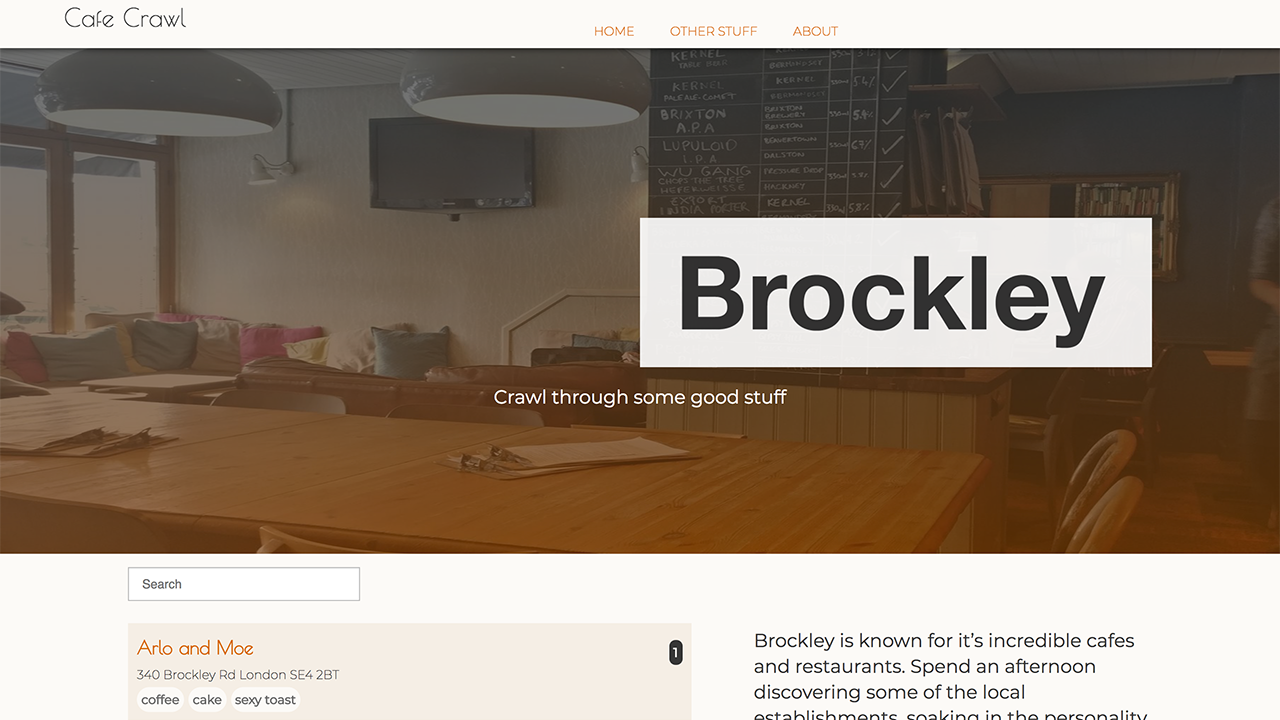
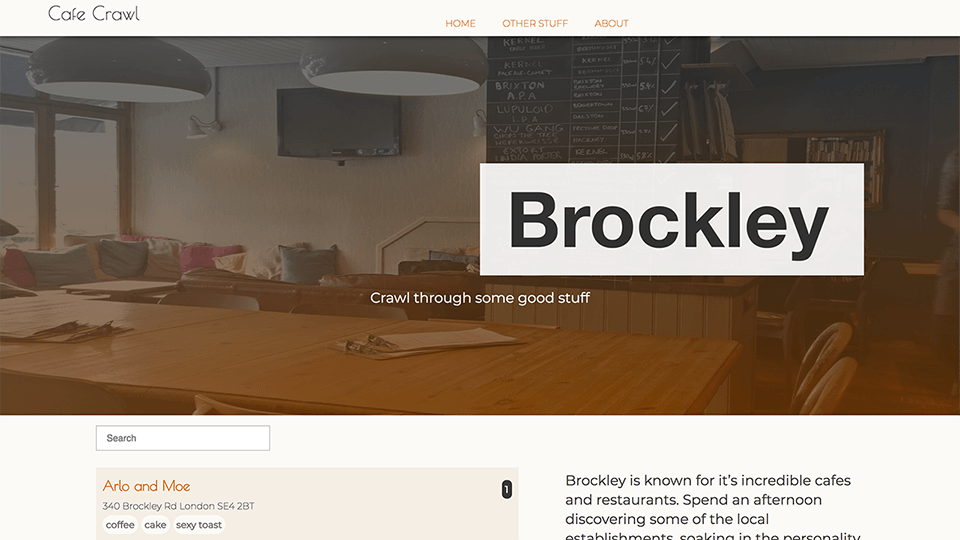
compress images

Changed region(s): [[0.5938, 0.8889, 0.875, 1.0], [0.375, 0.5333, 0.625, 0.563], [0.0938, 0.8889, 0.1875, 0.9185]]

diff --git a/_next/87667d25134e670c2eaedb246c9591fe/app.js b/_next/87667d25134e670c2eaedb246c9591fe/app.js
@@ -1,4 +1,4 @@
-!function(e){function n(r){if(t[r])return t[r].exports;var o=t[r]={i:r,l:!1,exports:{}},a=!0;try{e[r].call(o.exports,o,o.exports,n),a=!1}finally{a&&delete t[r]}return o.l=!0,o.exports}var r=window.webpackJsonp;window.webpackJsonp=function(t,a,u){for(var c,i,s,l=0,d=[];l<t.length;l++)i=t[l],o[i]&&d.push(o[i][0]),o[i]=0;for(c in a)Object.prototype.hasOwnProperty.call(a,c)&&(e[c]=a[c]);for(r&&r(t,a,u);d.length;)d.shift()();if(u)for(l=0;l<u.length;l++)s=n(n.s=u[l]);return s};var t={},o={5:0};n.e=function(e){function r(){c.onerror=c.onload=null,clearTimeout(i);var n=o[e];0!==n&&(n&&n[1](new Error("Loading chunk "+e+" failed.")),o[e]=void 0)}var t=o[e];if(0===t)return new Promise(function(e){e()});if(t)return t[2];var a=new Promise(function(n,r){t=o[e]=[n,r]});t[2]=a;var u=document.getElementsByTagName("head")[0],c=document.createElement("script");c.type="text/javascript",c.charset="utf-8",c.async=!0,c.timeout=12e4,n.nc&&c.setAttribute("nonce",n.nc),c.src=n.p+""+({0:"commons",1:"main.js",2:"bundles/pages/index.js",3:"bundles/pages/_error.js",4:"bundles/pages/_document.js"}[e]||e);var i=setTimeout(r,12e4);return c.onerror=c.onload=r,u.appendChild(c),a},n.m=e,n.c=t,n.d=function(e,r,t){n.o(e,r)||Object.defineProperty(e,r,{configurable:!1,enumerable:!0,get:t})},n.n=function(e){var r=e&&e.__esModule?function(){return e.default}:function(){return e};return n.d(r,"a",r),r},n.o=function(e,n){return Object.prototype.hasOwnProperty.call(e,n)},n.p="/_next/5a4ad156-81a2-4d4a-993d-236978d4b62d/webpack/",n.oe=function(e){throw console.error(e),e}}([]);
+!function(e){function n(r){if(t[r])return t[r].exports;var o=t[r]={i:r,l:!1,exports:{}},a=!0;try{e[r].call(o.exports,o,o.exports,n),a=!1}finally{a&&delete t[r]}return o.l=!0,o.exports}var r=window.webpackJsonp;window.webpackJsonp=function(t,a,c){for(var u,i,s,l=0,f=[];l<t.length;l++)i=t[l],o[i]&&f.push(o[i][0]),o[i]=0;for(u in a)Object.prototype.hasOwnProperty.call(a,u)&&(e[u]=a[u]);for(r&&r(t,a,c);f.length;)f.shift()();if(c)for(l=0;l<c.length;l++)s=n(n.s=c[l]);return s};var t={},o={5:0};n.e=function(e){function r(){u.onerror=u.onload=null,clearTimeout(i);var n=o[e];0!==n&&(n&&n[1](new Error("Loading chunk "+e+" failed.")),o[e]=void 0)}var t=o[e];if(0===t)return new Promise(function(e){e()});if(t)return t[2];var a=new Promise(function(n,r){t=o[e]=[n,r]});t[2]=a;var c=document.getElementsByTagName("head")[0],u=document.createElement("script");u.type="text/javascript",u.charset="utf-8",u.async=!0,u.timeout=12e4,n.nc&&u.setAttribute("nonce",n.nc),u.src=n.p+""+({0:"commons",1:"main.js",2:"bundles/pages/index.js",3:"bundles/pages/_error.js",4:"bundles/pages/_document.js"}[e]||e);var i=setTimeout(r,12e4);return u.onerror=u.onload=r,c.appendChild(u),a},n.m=e,n.c=t,n.d=function(e,r,t){n.o(e,r)||Object.defineProperty(e,r,{configurable:!1,enumerable:!0,get:t})},n.n=function(e){var r=e&&e.__esModule?function(){return e.default}:function(){return e};return n.d(r,"a",r),r},n.o=function(e,n){return Object.prototype.hasOwnProperty.call(e,n)},n.p="/_next/3e552907-26c7-419e-b79e-a2ea2ecfa2bd/webpack/",n.oe=function(e){throw console.error(e),e}}([]);
 webpackJsonp([0],[function(e,t,n){"use strict";e.exports=n(129)},function(e,t){var n=e.exports={version:"2.5.1"};"number"==typeof __e&&(__e=n)},function(e,t,n){"use strict";t.__esModule=!0,t.default=function(e,t){if(!(e instanceof t))throw new TypeError("Cannot call a class as a function")}},function(e,t,n){"use strict";t.__esModule=!0;var r=n(86),o=function(e){return e&&e.__esModule?e:{default:e}}(r);t.default=function(){function e(e,t){for(var n=0;n<t.length;n++){var r=t[n];r.enumerable=r.enumerable||!1,r.configurable=!0,"value"in r&&(r.writable=!0),(0,o.default)(e,r.key,r)}}return function(t,n,r){return n&&e(t.prototype,n),r&&e(t,r),t}}()},function(e,t,n){var r=n(6),o=n(1),a=n(15),i=n(16),u=function(e,t,n){var l,s,c,f=e&u.F,d=e&u.G,p=e&u.S,h=e&u.P,m=e&u.B,v=e&u.W,y=d?o:o[t]||(o[t]={}),g=y.prototype,b=d?r:p?r[t]:(r[t]||{}).prototype;d&&(n=t);for(l in n)(s=!f&&b&&void 0!==b[l])&&l in y||(c=s?b[l]:n[l],y[l]=d&&"function"!=typeof b[l]?n[l]:m&&s?a(c,r):v&&b[l]==c?function(e){var t=function(t,n,r){if(this instanceof e){switch(arguments.length){case 0:return new e;case 1:return new e(t);case 2:return new e(t,n)}return new e(t,n,r)}return e.apply(this,arguments)};return t.prototype=e.prototype,t}(c):h&&"function"==typeof c?a(Function.call,c):c,h&&((y.virtual||(y.virtual={}))[l]=c,e&u.R&&g&&!g[l]&&i(g,l,c)))};u.F=1,u.G=2,u.S=4,u.P=8,u.B=16,u.W=32,u.U=64,u.R=128,e.exports=u},function(e,t,n){var r=n(53)("wks"),o=n(36),a=n(6).Symbol,i="function"==typeof a;(e.exports=function(e){return r[e]||(r[e]=i&&a[e]||(i?a:o)("Symbol."+e))}).store=r},function(e,t){var n=e.exports="undefined"!=typeof window&&window.Math==Math?window:"undefined"!=typeof self&&self.Math==Math?self:Function("return this")();"number"==typeof __g&&(__g=n)},function(e,t,n){e.exports=n(99)},function(e,t,n){var r=n(12),o=n(70),a=n(50),i=Object.defineProperty;t.f=n(14)?Object.defineProperty:function(e,t,n){if(r(e),t=a(t,!0),r(n),o)try{return i(e,t,n)}catch(e){}if("get"in n||"set"in n)throw TypeError("Accessors not supported!");return"value"in n&&(e[t]=n.value),e}},function(e,t,n){e.exports={default:n(149),__esModule:!0}},function(e,t,n){"use strict";t.__esModule=!0;var r=n(63),o=function(e){return e&&e.__esModule?e:{default:e}}(r);t.default=function(e,t){if(!e)throw new ReferenceError("this hasn't been initialised - super() hasn't been called");return!t||"object"!==(void 0===t?"undefined":(0,o.default)(t))&&"function"!=typeof t?e:t}},function(e,t,n){"use strict";function r(e){return e&&e.__esModule?e:{default:e}}t.__esModule=!0;var o=n(160),a=r(o),i=n(164),u=r(i),l=n(63),s=r(l);t.default=function(e,t){if("function"!=typeof t&&null!==t)throw new TypeError("Super expression must either be null or a function, not "+(void 0===t?"undefined":(0,s.default)(t)));e.prototype=(0,u.default)(t&&t.prototype,{constructor:{value:e,enumerable:!1,writable:!0,configurable:!0}}),t&&(a.default?(0,a.default)(e,t):e.__proto__=t)}},function(e,t,n){var r=n(13);e.exports=function(e){if(!r(e))throw TypeError(e+" is not an object!");return e}},function(e,t){e.exports=function(e){return"object"==typeof e?null!==e:"function"==typeof e}},function(e,t,n){e.exports=!n(17)(function(){return 7!=Object.defineProperty({},"a",{get:function(){return 7}}).a})},function(e,t,n){var r=n(26);e.exports=function(e,t,n){if(r(e),void 0===t)return e;switch(n){case 1:return function(n){return e.call(t,n)};case 2:return function(n,r){return e.call(t,n,r)};case 3:return function(n,r,o){return e.call(t,n,r,o)}}return function(){return e.apply(t,arguments)}}},function(e,t,n){var r=n(8),o=n(27);e.exports=n(14)?function(e,t,n){return r.f(e,t,o(1,n))}:function(e,t,n){return e[t]=n,e}},function(e,t){e.exports=function(e){try{return!!e()}catch(e){return!0}}},function(e,t){var n={}.hasOwnProperty;e.exports=function(e,t){return n.call(e,t)}},function(e,t,n){"use strict";var r=n(121)(!0);n(48)(String,"String",function(e){this._t=String(e),this._i=0},function(){var e,t=this._t,n=this._i;return n>=t.length?{value:void 0,done:!0}:(e=r(t,n),this._i+=e.length,{value:e,done:!1})})},function(e,t,n){e.exports=n(167)()},function(e,t,n){n(115);for(var r=n(6),o=n(16),a=n(22),i=n(5)("toStringTag"),u="CSSRuleList,CSSStyleDeclaration,CSSValueList,ClientRectList,DOMRectList,DOMStringList,DOMTokenList,DataTransferItemList,FileList,HTMLAllCollection,HTMLCollection,HTMLFormElement,HTMLSelectElement,MediaList,MimeTypeArray,NamedNodeMap,NodeList,PaintRequestList,Plugin,PluginArray,SVGLengthList,SVGNumberList,SVGPathSegList,SVGPointList,SVGStringList,SVGTransformList,SourceBufferList,StyleSheetList,TextTrackCueList,TextTrackList,TouchList".split(","),l=0;l<u.length;l++){var s=u[l],c=r[s],f=c&&c.prototype;f&&!f[i]&&o(f,i,s),a[s]=a.Array}},function(e,t){e.exports={}},function(e,t,n){var r=n(46),o=n(47);e.exports=function(e){return r(o(e))}},function(e,t,n){var r=n(47);e.exports=function(e){return Object(r(e))}},function(e,t){var n={}.toString;e.exports=function(e){return n.call(e).slice(8,-1)}},function(e,t){e.exports=function(e){if("function"!=typeof e)throw TypeError(e+" is not a function!");return e}},function(e,t){e.exports=function(e,t){return{enumerable:!(1&e),configurable:!(2&e),writable:!(4&e),value:t}}},function(e,t,n){var r=n(72),o=n(54);e.exports=Object.keys||function(e){return r(e,o)}},function(e,t,n){var r=n(8).f,o=n(18),a=n(5)("toStringTag");e.exports=function(e,t,n){e&&!o(e=n?e:e.prototype,a)&&r(e,a,{configurable:!0,value:t})}},function(e,t,n){e.exports={default:n(123),__esModule:!0}},function(e,t,n){var r=n(15),o=n(75),a=n(76),i=n(12),u=n(35),l=n(55),s={},c={},t=e.exports=function(e,t,n,f,d){var p,h,m,v,y=d?function(){return e}:l(e),g=r(n,f,t?2:1),b=0;if("function"!=typeof y)throw TypeError(e+" is not iterable!");if(a(y)){for(p=u(e.length);p>b;b++)if((v=t?g(i(h=e[b])[0],h[1]):g(e[b]))===s||v===c)return v}else for(m=y.call(e);!(h=m.next()).done;)if((v=o(m,g,h.value,t))===s||v===c)return v};t.BREAK=s,t.RETURN=c},function(e,t,n){"use strict";(function(e){function r(e){return e&&e.__esModule?e:{default:e}}function o(e){}function a(e){var t=this,n=!1;return function(){for(var r=arguments.length,o=Array(r),a=0;a<r;a++)o[a]=arguments[a];n||(n=!0,e.apply(t,o))}}function i(e,t){return e}function u(t){var n=arguments.length>1&&void 0!==arguments[1]?arguments[1]:1;0===n?console.log(t):console.error(t),e.exit(n)}function l(e){return e.displayName||e.name||"Unknown"}function s(){var e=window.location,t=e.protocol,n=e.hostname,r=e.port;return t+"//"+n+(r?":"+r:"")}function c(){var e=window.location.href,t=s();return e.substring(t.length)}Object.defineProperty(t,"__esModule",{value:!0}),t.loadGetInitialProps=void 0;var f=n(44),d=r(f),p=n(56),h=r(p),m=n(61);r(m),t.loadGetInitialProps=function(){var e=(0,h.default)(d.default.mark(function e(t,n){var r,o,a;return d.default.wrap(function(e){for(;;)switch(e.prev=e.next){case 0:if(t.getInitialProps){e.next=2;break}return e.abrupt("return",{});case 2:return e.next=4,t.getInitialProps(n);case 4:if((r=e.sent)||n.res&&n.res.finished){e.next=9;break}throw o=l(t),a='"'+o+'.getInitialProps()" should resolve to an object. But found "'+r+'" instead.',new Error(a);case 9:return e.abrupt("return",r);case 10:case"end":return e.stop()}},e,this)}));return function(t,n){return e.apply(this,arguments)}}();t.warn=o,t.execOnce=a,t.deprecated=i,t.printAndExit=u,t.getDisplayName=l,t.getLocationOrigin=s,t.getURL=c}).call(t,n(91))},function(e,t){e.exports=!0},function(e,t,n){var r=n(12),o=n(118),a=n(54),i=n(52)("IE_PROTO"),u=function(){},l=function(){var e,t=n(49)("iframe"),r=a.length;for(t.style.display="none",n(73).appendChild(t),t.src="javascript:",e=t.contentWindow.document,e.open(),e.write("<script>document.F=Object<\/script>"),e.close(),l=e.F;r--;)delete l.prototype[a[r]];return l()};e.exports=Object.create||function(e,t){var n;return null!==e?(u.prototype=r(e),n=new u,u.prototype=null,n[i]=e):n=l(),void 0===t?n:o(n,t)}},function(e,t,n){var r=n(51),o=Math.min;e.exports=function(e){return e>0?o(r(e),9007199254740991):0}},function(e,t){var n=0,r=Math.random();e.exports=function(e){return"Symbol(".concat(void 0===e?"":e,")_",(++n+r).toString(36))}},function(e,t,n){var r=n(25),o=n(5)("toStringTag"),a="Arguments"==r(function(){return arguments}()),i=function(e,t){try{return e[t]}catch(e){}};e.exports=function(e){var t,n,u;return void 0===e?"Undefined":null===e?"Null":"string"==typeof(n=i(t=Object(e),o))?n:a?r(t):"Object"==(u=r(t))&&"function"==typeof t.callee?"Arguments":u}},function(e,t){},function(e,t,n){"use strict";function r(e){return function(){return e}}var o=function(){};o.thatReturns=r,o.thatReturnsFalse=r(!1),o.thatReturnsTrue=r(!0),o.thatReturnsNull=r(null),o.thatReturnsThis=function(){return this},o.thatReturnsArgument=function(e){return e},e.exports=o},function(e,t,n){"use strict";function r(e){return e&&e.__esModule?e:{default:e}}t.__esModule=!0;var o=n(142),a=r(o),i=n(45),u=r(i);t.default=function(){function e(e,t){var n=[],r=!0,o=!1,a=void 0;try{for(var i,l=(0,u.default)(e);!(r=(i=l.next()).done)&&(n.push(i.value),!t||n.length!==t);r=!0);}catch(e){o=!0,a=e}finally{try{!r&&l.return&&l.return()}finally{if(o)throw a}}return n}return function(t,n){if(Array.isArray(t))return t;if((0,a.default)(Object(t)))return e(t,n);throw new TypeError("Invalid attempt to destructure non-iterable instance")}}()},function(e,t,n){"use strict";t.__esModule=!0;var r=n(61),o=function(e){return e&&e.__esModule?e:{default:e}}(r);t.default=o.default||function(e){for(var t=1;t<arguments.length;t++){var n=arguments[t];for(var r in n)Object.prototype.hasOwnProperty.call(n,r)&&(e[r]=n[r])}return e}},function(e,t){t.f={}.propertyIsEnumerable},function(e,t,n){e.exports={default:n(172),__esModule:!0}},function(e,t,n){e.exports=n(112)},function(e,t,n){e.exports={default:n(114),__esModule:!0}},function(e,t,n){var r=n(25);e.exports=Object("z").propertyIsEnumerable(0)?Object:function(e){return"String"==r(e)?e.split(""):Object(e)}},function(e,t){e.exports=function(e){if(void 0==e)throw TypeError("Can't call method on  "+e);return e}},function(e,t,n){"use strict";var r=n(33),o=n(4),a=n(71),i=n(16),u=n(18),l=n(22),s=n(117),c=n(29),f=n(74),d=n(5)("iterator"),p=!([].keys&&"next"in[].keys()),h=function(){return this};e.exports=function(e,t,n,m,v,y,g){s(n,t,m);var b,x,_,w=function(e){if(!p&&e in S)return S[e];switch(e){case"keys":case"values":return function(){return new n(this,e)}}return function(){return new n(this,e)}},k=t+" Iterator",E="values"==v,C=!1,S=e.prototype,T=S[d]||S["@@iterator"]||v&&S[v],O=T||w(v),j=v?E?w("entries"):O:void 0,P="Array"==t?S.entries||T:T;if(P&&(_=f(P.call(new e)))!==Object.prototype&&_.next&&(c(_,k,!0),r||u(_,d)||i(_,d,h)),E&&T&&"values"!==T.name&&(C=!0,O=function(){return T.call(this)}),r&&!g||!p&&!C&&S[d]||i(S,d,O),l[t]=O,l[k]=h,v)if(b={values:E?O:w("values"),keys:y?O:w("keys"),entries:j},g)for(x in b)x in S||a(S,x,b[x]);else o(o.P+o.F*(p||C),t,b);return b}},function(e,t,n){var r=n(13),o=n(6).document,a=r(o)&&r(o.createElement);e.exports=function(e){return a?o.createElement(e):{}}},function(e,t,n){var r=n(13);e.exports=function(e,t){if(!r(e))return e;var n,o;if(t&&"function"==typeof(n=e.toString)&&!r(o=n.call(e)))return o;if("function"==typeof(n=e.valueOf)&&!r(o=n.call(e)))return o;if(!t&&"function"==typeof(n=e.toString)&&!r(o=n.call(e)))return o;throw TypeError("Can't convert object to primitive value")}},function(e,t){var n=Math.ceil,r=Math.floor;e.exports=function(e){return isNaN(e=+e)?0:(e>0?r:n)(e)}},function(e,t,n){var r=n(53)("keys"),o=n(36);e.exports=function(e){return r[e]||(r[e]=o(e))}},function(e,t,n){var r=n(6),o=r["__core-js_shared__"]||(r["__core-js_shared__"]={});e.exports=function(e){return o[e]||(o[e]={})}},function(e,t){e.exports="constructor,hasOwnProperty,isPrototypeOf,propertyIsEnumerable,toLocaleString,toString,valueOf".split(",")},function(e,t,n){var r=n(37),o=n(5)("iterator"),a=n(22);e.exports=n(1).getIteratorMethod=function(e){if(void 0!=e)return e[o]||e["@@iterator"]||a[r(e)]}},function(e,t,n){"use strict";t.__esModule=!0;var r=n(30),o=function(e){return e&&e.__esModule?e:{default:e}}(r);t.default=function(e){return function(){var t=e.apply(this,arguments);return new o.default(function(e,n){function r(a,i){try{var u=t[a](i),l=u.value}catch(e){return void n(e)}if(!u.done)return o.default.resolve(l).then(function(e){r("next",e)},function(e){r("throw",e)});e(l)}return r("next")})}}},function(e,t){e.exports=function(e,t,n,r){if(!(e instanceof t)||void 0!==r&&r in e)throw TypeError(n+": incorrect invocation!");return e}},function(e,t,n){"use strict";function r(e){var t,n;this.promise=new e(function(e,r){if(void 0!==t||void 0!==n)throw TypeError("Bad Promise constructor");t=e,n=r}),this.resolve=o(t),this.reject=o(n)}var o=n(26);e.exports.f=function(e){return new r(e)}},function(e,t,n){var r=n(16);e.exports=function(e,t,n){for(var o in t)n&&e[o]?e[o]=t[o]:r(e,o,t[o]);return e}},function(e,t,n){"use strict";function r(e){return e&&e.__esModule?e:{default:e}}function o(){if(!m.router){throw new Error('No router instance found.\nYou should only use "next/router" inside the client side of your app.\n')}}function a(e){m.onAppUpdated?m.onAppUpdated(e):(console.warn('An app update detected. Loading the SSR version of "'+e+'"'),window.location.href=e)}function i(e){var t=e.split("#"),n=(0,s.default)(t,2),r=n[1];e=e.replace(/#.*/,"");var o=e.split("?"),a=(0,s.default)(o,2),i=a[0],u=a[1];i=i.replace(/\/$/,"");var l=i;return/\.[^\/]+\/?$/.test(i)||(l=i+"/"),u&&(l=l+"?"+u),r&&(l=l+"#"+r),l}function u(e){var t={};return v.forEach(function(n){(0,f.default)(t,n,{get:function(){return e[n]}})}),y.forEach(function(n){t[n]=function(){return e[n].apply(e,arguments)}}),t}Object.defineProperty(t,"__esModule",{value:!0}),t.Router=t.createRouter=t.withRouter=void 0;var l=n(40),s=r(l),c=n(86),f=r(c),d=n(145);Object.defineProperty(t,"withRouter",{enumerable:!0,get:function(){return r(d).default}}),t._notifyBuildIdMismatch=a,t._rewriteUrlForNextExport=i,t.makePublicRouterInstance=u;var p=n(171),h=r(p),m={router:null,readyCallbacks:[],ready:function(e){if(this.router)return e();"undefined"!=typeof window&&this.readyCallbacks.push(e)}},v=["components","pathname","route","query","asPath"],y=["push","replace","reload","back","prefetch"],g=["routeChangeStart","beforeHistoryChange","routeChangeComplete","routeChangeError"];v.forEach(function(e){(0,f.default)(m,e,{get:function(){return o(),m.router[e]}})}),y.forEach(function(e){m[e]=function(){var t;return o(),(t=m.router)[e].apply(t,arguments)}}),g.forEach(function(e){m.ready(function(){m.router.events.on(e,function(){var t="on"+e.charAt(0).toUpperCase()+e.substring(1);if(m[t])try{m[t].apply(m,arguments)}catch(e){console.error("Error when running the Router event: "+t),console.error(e.message+"\n"+e.stack)}})})}),t.default=m;t.createRouter=function(){for(var e=arguments.length,t=Array(e),n=0;n<e;n++)t[n]=arguments[n];return m.router=new(Function.prototype.bind.apply(h.default,[null].concat(t))),m.readyCallbacks.forEach(function(e){return e()}),m.readyCallbacks=[],m.router},t.Router=h.default},function(e,t,n){e.exports={default:n(146),__esModule:!0}},function(e,t){t.f=Object.getOwnPropertySymbols},function(e,t,n){"use strict";function r(e){return e&&e.__esModule?e:{default:e}}t.__esModule=!0;var o=n(151),a=r(o),i=n(153),u=r(i),l="function"==typeof u.default&&"symbol"==typeof a.default?function(e){return typeof e}:function(e){return e&&"function"==typeof u.default&&e.constructor===u.default&&e!==u.default.prototype?"symbol":typeof e};t.default="function"==typeof u.default&&"symbol"===l(a.default)?function(e){return void 0===e?"undefined":l(e)}:function(e){return e&&"function"==typeof u.default&&e.constructor===u.default&&e!==u.default.prototype?"symbol":void 0===e?"undefined":l(e)}},function(e,t,n){t.f=n(5)},function(e,t,n){var r=n(36)("meta"),o=n(13),a=n(18),i=n(8).f,u=0,l=Object.isExtensible||function(){return!0},s=!n(17)(function(){return l(Object.preventExtensions({}))}),c=function(e){i(e,r,{value:{i:"O"+ ++u,w:{}}})},f=function(e,t){if(!o(e))return"symbol"==typeof e?e:("string"==typeof e?"S":"P")+e;if(!a(e,r)){if(!l(e))return"F";if(!t)return"E";c(e)}return e[r].i},d=function(e,t){if(!a(e,r)){if(!l(e))return!0;if(!t)return!1;c(e)}return e[r].w},p=function(e){return s&&h.NEED&&l(e)&&!a(e,r)&&c(e),e},h=e.exports={KEY:r,NEED:!1,fastKey:f,getWeak:d,onFreeze:p}},function(e,t,n){var r=n(6),o=n(1),a=n(33),i=n(64),u=n(8).f;e.exports=function(e){var t=o.Symbol||(o.Symbol=a?{}:r.Symbol||{});"_"==e.charAt(0)||e in t||u(t,e,{value:i.f(e)})}},function(e,t,n){var r=n(13);e.exports=function(e,t){if(!r(e)||e._t!==t)throw TypeError("Incompatible receiver, "+t+" required!");return e}},function(e,t,n){"use strict";function r(e){return e&&e.__esModule?e:{default:e}}Object.defineProperty(t,"__esModule",{value:!0});var o=n(43),a=r(o),i=n(2),u=r(i),l=n(3),s=r(l),c=function(){function e(){(0,u.default)(this,e),this.listeners={}}return(0,s.default)(e,[{key:"on",value:function(e,t){if(this.listeners[e]||(this.listeners[e]=new a.default),this.listeners[e].has(t))throw new Error("The listener already exising in event: "+e);this.listeners[e].add(t)}},{key:"emit",value:function(e){for(var t=arguments.length,n=Array(t>1?t-1:0),r=1;r<t;r++)n[r-1]=arguments[r];this.listeners[e]&&this.listeners[e].forEach(function(e){return e.apply(void 0,n)})}},{key:"off",value:function(e,t){this.listeners[e].delete(t)}}]),e}();t.default=c},function(e,t){e.exports=function(e,t){return{value:t,done:!!e}}},function(e,t,n){e.exports=!n(14)&&!n(17)(function(){return 7!=Object.defineProperty(n(49)("div"),"a",{get:function(){return 7}}).a})},function(e,t,n){e.exports=n(16)},function(e,t,n){var r=n(18),o=n(23),a=n(119)(!1),i=n(52)("IE_PROTO");e.exports=function(e,t){var n,u=o(e),l=0,s=[];for(n in u)n!=i&&r(u,n)&&s.push(n);for(;t.length>l;)r(u,n=t[l++])&&(~a(s,n)||s.push(n));return s}},function(e,t,n){var r=n(6).document;e.exports=r&&r.documentElement},function(e,t,n){var r=n(18),o=n(24),a=n(52)("IE_PROTO"),i=Object.prototype;e.exports=Object.getPrototypeOf||function(e){return e=o(e),r(e,a)?e[a]:"function"==typeof e.constructor&&e instanceof e.constructor?e.constructor.prototype:e instanceof Object?i:null}},function(e,t,n){var r=n(12);e.exports=function(e,t,n,o){try{return o?t(r(n)[0],n[1]):t(n)}catch(t){var a=e.return;throw void 0!==a&&r(a.call(e)),t}}},function(e,t,n){var r=n(22),o=n(5)("iterator"),a=Array.prototype;e.exports=function(e){return void 0!==e&&(r.Array===e||a[o]===e)}},function(e,t,n){var r=n(12),o=n(26),a=n(5)("species");e.exports=function(e,t){var n,i=r(e).constructor;return void 0===i||void 0==(n=r(i)[a])?t:o(n)}},function(e,t,n){var r,o,a,i=n(15),u=n(125),l=n(73),s=n(49),c=n(6),f=c.process,d=c.setImmediate,p=c.clearImmediate,h=c.MessageChannel,m=c.Dispatch,v=0,y={},g=function(){var e=+this;if(y.hasOwnProperty(e)){var t=y[e];delete y[e],t()}},b=function(e){g.call(e.data)};d&&p||(d=function(e){for(var t=[],n=1;arguments.length>n;)t.push(arguments[n++]);return y[++v]=function(){u("function"==typeof e?e:Function(e),t)},r(v),v},p=function(e){delete y[e]},"process"==n(25)(f)?r=function(e){f.nextTick(i(g,e,1))}:m&&m.now?r=function(e){m.now(i(g,e,1))}:h?(o=new h,a=o.port2,o.port1.onmessage=b,r=i(a.postMessage,a,1)):c.addEventListener&&"function"==typeof postMessage&&!c.importScripts?(r=function(e){c.postMessage(e+"","*")},c.addEventListener("message",b,!1)):r="onreadystatechange"in s("script")?function(e){l.appendChild(s("script")).onreadystatechange=function(){l.removeChild(this),g.call(e)}}:function(e){setTimeout(i(g,e,1),0)}),e.exports={set:d,clear:p}},function(e,t){e.exports=function(e){try{return{e:!1,v:e()}}catch(e){return{e:!0,v:e}}}},function(e,t,n){var r=n(12),o=n(13),a=n(58);e.exports=function(e,t){if(r(e),o(t)&&t.constructor===e)return t;var n=a.f(e);return(0,n.resolve)(t),n.promise}},function(e,t,n){"use strict";var r=n(6),o=n(1),a=n(8),i=n(14),u=n(5)("species");e.exports=function(e){var t="function"==typeof o[e]?o[e]:r[e];i&&t&&!t[u]&&a.f(t,u,{configurable:!0,get:function(){return this}})}},function(e,t,n){var r=n(5)("iterator"),o=!1;try{var a=[7][r]();a.return=function(){o=!0},Array.from(a,function(){throw 2})}catch(e){}e.exports=function(e,t){if(!t&&!o)return!1;var n=!1;try{var a=[7],i=a[r]();i.next=function(){return{done:n=!0}},a[r]=function(){return i},e(a)}catch(e){}return n}},function(e,t,n){"use strict";function r(e){if(null===e||void 0===e)throw new TypeError("Object.assign cannot be called with null or undefined");return Object(e)}/*
 object-assign
 (c) Sindre Sorhus

diff --git a/index.html b/index.html
@@ -1,4 +1,4 @@
-<!DOCTYPE html><html><head><link rel="preload" href="/_next/5a4ad156-81a2-4d4a-993d-236978d4b62d/page/index.js" as="script"/><link rel="preload" href="/_next/5a4ad156-81a2-4d4a-993d-236978d4b62d/page/_error/index.js" as="script"/><link rel="preload" href="/_next/84dd53aade31389d7c64a0e02fcf51ba/app.js" as="script"/><meta charSet="UTF-8" class="next-head"/><meta http-equiv="x-ua-compatible" content="ie=edge" class="next-head"/><meta name="viewport" content="initial-scale=1.0, width=device-width" class="next-head"/><meta name="description" content="Portfolio page showcasing my work as a Web Devleoper" class="next-head"/><title class="next-head">Andrico Karoulla Portfolio Page</title><link href="https://fonts.googleapis.com/css?family=Lato:300,400,700" rel="stylesheet" type="text/css" class="next-head"/><style id="__jsx-undefined">/* normalize.css */
+<!DOCTYPE html><html><head><link rel="preload" href="/_next/3e552907-26c7-419e-b79e-a2ea2ecfa2bd/page/index.js" as="script"/><link rel="preload" href="/_next/3e552907-26c7-419e-b79e-a2ea2ecfa2bd/page/_error/index.js" as="script"/><link rel="preload" href="/_next/87667d25134e670c2eaedb246c9591fe/app.js" as="script"/><meta charSet="UTF-8" class="next-head"/><meta http-equiv="x-ua-compatible" content="ie=edge" class="next-head"/><meta name="viewport" content="initial-scale=1.0, width=device-width" class="next-head"/><meta name="description" content="Portfolio page showcasing my work as a Web Devleoper" class="next-head"/><title class="next-head">Andrico Karoulla Portfolio Page</title><link href="https://fonts.googleapis.com/css?family=Lato:300,400,700" rel="stylesheet" type="text/css" class="next-head"/><style id="__jsx-undefined">/* normalize.css */
 html {
   line-height: 1.15;
   -ms-text-size-adjust: 100%;
@@ -210,7 +210,7 @@ footer.jsx-3633270217 .button-container.jsx-3633270217{padding:15px 0;text-align
 footer.jsx-3633270217 button.jsx-3633270217{background-color:#e8535b;border:1px solid white;border-radius:1px;color:white;height:45px;padding:12px 0 20px 0;text-align:center;width:135px;}
 footer.jsx-3633270217 button.jsx-3633270217:active{box-shadow:inset 0 0 5px 2px rgba(0,0,0,0.3);}
 footer.jsx-3633270217 button.jsx-3633270217:hover{cursor:pointer;}</style></head><body><div><div id="__next"><div data-reactroot=""><div><div></div><div class="jsx-136946892 header-wrapper"><header class="jsx-136946892"><nav class="jsx-1031844658"><ul class="jsx-1031844658"><li class="jsx-1031844658">Home</li><li class="jsx-1031844658"><a href="https://github.com/andrico1234" class="jsx-1031844658">Work</a></li><li class="jsx-1031844658">About</li><li class="jsx-1031844658"><a href="mailto:andrico1234@yahoo.co.uk?Subject=Hello" class="jsx-1031844658">Contact</a></li></ul></nav><h1 class="jsx-136946892">Hello.</h1><p class="jsx-136946892">A JavaScript developer based in London, my work is an amalgamation of sleek and modern design with fluid interactivity.</p><img src="static/icon-arrow-down.svg" class="jsx-136946892 arrow-down"/></header></div><div class="jsx-1188203435 work-wrapper"><h1 class="jsx-1188203435">Work.</h1><ul class="jsx-1188203435"><li class="jsx-261561737 work-item"><img src="static/fullstack-coffee-app.png" class="jsx-261561737"/><div class="jsx-261561737 content-container"><h3 class="jsx-261561737">Brockley Cafe Crawl</h3><p class="jsx-261561737">A Fullstack Node/React App that details all of the best coffee shops in Brockley</p><button class="jsx-261561737">Learn More.</button></div></li><li class="jsx-261561737 work-item"><img src="static/dashboard-screen.png" class="jsx-261561737"/><div class="jsx-261561737 content-container"><h3 class="jsx-261561737">Web App Dashboard</h3><p class="jsx-261561737">A responsive Web App Dashboard made using JavaScript, sass and jQuery. Also uses additional JS libraries.</p><button class="jsx-261561737">Learn More.</button></div></li><li class="jsx-261561737 work-item"><img src="static/photo-gallery-screen.png" class="jsx-261561737"/><div class="jsx-261561737 content-container"><h3 class="jsx-261561737">Photo Gallery</h3><p class="jsx-261561737">This responsive Web Gallery uses JavaScript and jQuery for search and overlay functionality.</p><button class="jsx-261561737">Learn More.</button></div></li><li class="jsx-261561737 work-item"><img src="static/interactive-form-screen.png" class="jsx-261561737"/><div class="jsx-261561737 content-container"><h3 class="jsx-261561737">Registration Form</h3><p class="jsx-261561737">A Registration Form made using HTML5. Utilised modern accessibility tools and CSS transitions for improved UX.</p><button class="jsx-261561737">Learn More.</button></div></li><li class="jsx-261561737 work-item"><img src="static/realtime-chat-app.png" class="jsx-261561737"/><div class="jsx-261561737 content-container"><h3 class="jsx-261561737">Realtime Chat App</h3><p class="jsx-261561737">A Real Time Chat application that allows multiple users over the internet to communicate with one another</p><button class="jsx-261561737">Learn More.</button></div></li><li class="jsx-261561737 work-item"><img src="static/video-player-screen.png" class="jsx-261561737"/><div class="jsx-261561737 content-container"><h3 class="jsx-261561737">Interactive Video Player</h3><p class="jsx-261561737">A multi-function Video Player created using JavaScript, sass and jQuery. Functions include speed adjustment and captions.</p><button class="jsx-261561737">Learn More.</button></div></li></ul></div><div class="jsx-3633270217 footer-wrapper"><footer class="jsx-3633270217"><h1 class="jsx-3633270217">Contact.</h1><p class="jsx-3633270217">If you have any questions or queries about my work, or would like an interactive website built, then don&#x27;t hesitate to drop me an email. You can reach out to me on social media via the icons below.</p><div class="jsx-3633270217 button-container"><a href="mailto:andrico1234@yahoo.co.uk" class="jsx-3633270217"><button class="jsx-3633270217">Contact Me</button></a></div><div class="jsx-3382380684 images"><a href="https://www.linkedin.com/in/andrico-karoulla" class="jsx-3382380684"><img src="static/icon-linkedin.svg" alt="" class="jsx-3382380684"/></a><a href="https://github.com/andrico1234" class="jsx-3382380684"><img src="static/icon-github.svg" alt="" class="jsx-3382380684"/></a><a href="mailto:andrico1234@yahoo.co.uk?Subject=Enquiry" target="_top" class="jsx-3382380684"><img src="static/icon-mail.svg" alt="" class="jsx-3382380684 mail"/></a><a href="https://twitter.com/andricokaroulla" class="jsx-3382380684"><img src="static/icon-twitter2.svg" alt="" class="jsx-3382380684"/></a></div><div class="jsx-3633270217 arrow-container"><img src="static/icon-arrow-up.svg" class="jsx-3633270217"/></div></footer></div></div></div></div><div id="__next-error"></div></div><div><script>
-          __NEXT_DATA__ = {"props":{},"pathname":"/","query":{},"buildId":"5a4ad156-81a2-4d4a-993d-236978d4b62d","buildStats":{"app.js":{"hash":"84dd53aade31389d7c64a0e02fcf51ba"}},"assetPrefix":"","nextExport":true,"err":null,"chunks":[]}
+          __NEXT_DATA__ = {"props":{},"pathname":"/","query":{},"buildId":"3e552907-26c7-419e-b79e-a2ea2ecfa2bd","buildStats":{"app.js":{"hash":"87667d25134e670c2eaedb246c9591fe"}},"assetPrefix":"","nextExport":true,"err":null,"chunks":[]}
           module={}
           __NEXT_LOADED_PAGES__ = []
           __NEXT_LOADED_CHUNKS__ = []
@@ -222,4 +222,4 @@ footer.jsx-3633270217 button.jsx-3633270217:hover{cursor:pointer;}</style></head
           __NEXT_REGISTER_CHUNK = function (chunkName, fn) {
             __NEXT_LOADED_CHUNKS__.push({ chunkName: chunkName, fn: fn })
           }
-        </script><script async="" id="__NEXT_PAGE__/" type="text/javascript" src="/_next/5a4ad156-81a2-4d4a-993d-236978d4b62d/page/index.js"></script><script async="" id="__NEXT_PAGE__/_error" type="text/javascript" src="/_next/5a4ad156-81a2-4d4a-993d-236978d4b62d/page/_error/index.js"></script><div></div><script type="text/javascript" src="/_next/84dd53aade31389d7c64a0e02fcf51ba/app.js" async=""></script></div></body></html>
+        </script><script async="" id="__NEXT_PAGE__/" type="text/javascript" src="/_next/3e552907-26c7-419e-b79e-a2ea2ecfa2bd/page/index.js"></script><script async="" id="__NEXT_PAGE__/_error" type="text/javascript" src="/_next/3e552907-26c7-419e-b79e-a2ea2ecfa2bd/page/_error/index.js"></script><div></div><script type="text/javascript" src="/_next/87667d25134e670c2eaedb246c9591fe/app.js" async=""></script></div></body></html>
